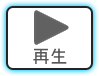
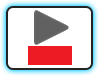
曲の自動再生に失敗している場合、ポーズボタンを曲開始表示に変更(画像は仮素材)

Changed region(s): [[0.2727, 0.6053, 0.7273, 0.8684]]

diff --git a/textalive-sample/src/scenes/GameMain.ts b/textalive-sample/src/scenes/GameMain.ts
@@ -30,7 +30,6 @@ export default class GameMain extends Phaser.Scene {
 
     public api: TextaliveApiManager;
 
-    public musicStart = false;
     public sceneChangeStatus = "";
 
     public firstLane: number = 120;
@@ -111,6 +110,10 @@ export default class GameMain extends Phaser.Scene {
     // チュートリアル関連
     private tutorial: TutorialObject;
 
+    // 曲開始処理用
+    private musicStartState: string;
+    private musicStartRequestTime: number;
+
     // ポーズボタン
     private pauseButton: UIPauseButtonObject;
 
@@ -174,6 +177,10 @@ export default class GameMain extends Phaser.Scene {
 
         // チュートリアル
         this.tutorial = new TutorialObject();
+
+        // 曲開始処理用
+        this.musicStartState = "";
+        this.musicStartRequestTime = 0;
 
         // ボタン
         this.pauseButton = new UIPauseButtonObject();
@@ -247,8 +254,9 @@ export default class GameMain extends Phaser.Scene {
         TimeProgressBarObject.preload(this.load);
 
         // ボタン
-        this.load.image("button_play", uiImage["start"]);
+        this.load.image("button_play", uiImage["play"]);
         this.load.image("button_pause", uiImage["pause"]);
+        this.load.image("button_start", uiImage["start"]);
     }
 
     create(): void {
@@ -347,6 +355,7 @@ export default class GameMain extends Phaser.Scene {
             scene: this,
             pauseImageKey: "button_pause",
             playImageKey: "button_play",
+            startImageKey: "button_start",
             posX: 1200,
             posY: 670,
             textaliveManager: this.api,
@@ -445,11 +454,12 @@ export default class GameMain extends Phaser.Scene {
         if (
             !this.api.player.isPlaying &&
             !this.api.player.isLoading &&
-            !this.musicStart &&
+            this.musicStartState == "" &&
             this.tutorial.gameStartCounter > 100
         ) {
             this.api.player.requestPlay();
-            this.musicStart = true;
+            this.musicStartState = "requestedPlay";
+            this.musicStartRequestTime = performance.now();
 
             // 歌詞の色付け
             this.lyricLogicObject.setLyricColor();
@@ -465,6 +475,14 @@ export default class GameMain extends Phaser.Scene {
             // 楽曲情報をコンソール出力
             if (this.enableDebugInfo) {
                 this.debugInfo.dispConsoleSongInfo();
+            }
+        } else if (this.musicStartState == "requestedPlay") {
+            if (this.api.player.isPlaying) {
+                this.pauseButton.setStatus("pause");
+                this.musicStartState = "musicStarted";
+            } else if (performance.now() - this.musicStartRequestTime > 1000) {
+                // Phaser と TextAlive App API の更新処理が同期取れないので1秒以上開始できていなければ、自動再生に失敗したとみなす
+                this.pauseButton.setStatus("start");
             }
         }
 

diff --git a/textalive-sample/src/object/UIPauseButtonObject.ts b/textalive-sample/src/object/UIPauseButtonObject.ts
@@ -1,3 +1,4 @@
+import GameMain from "../scenes/GameMain";
 import TextaliveApiManager from "../TextaliveApiManager";
 import UIImageButtonObject from "./UIImageButtonObject";
 
@@ -5,6 +6,7 @@ export interface UIPauseButtonObjectCreateParam {
     scene: Phaser.Scene;
     pauseImageKey: string;
     playImageKey: string;
+    startImageKey: string;
     imageDepth?: number;
     posX: number;
     posY: number;
@@ -19,15 +21,16 @@ export default class UIPauseButtonObject {
         this.init();
     }
 
-    init(): void {
+    public init(): void {
         this._button = null;
         this._textaliveManager = null;
     }
 
-    create(param: UIPauseButtonObjectCreateParam): void {
+    public create(param: UIPauseButtonObjectCreateParam): void {
         const imageKeyMap = new Map<string, string>([
             ["pause", param.pauseImageKey],
             ["play", param.playImageKey],
+            ["start", param.startImageKey],
         ]);
 
         this._button = new UIImageButtonObject();
@@ -54,15 +57,29 @@ export default class UIPauseButtonObject {
         }
 
         if (this._textaliveManager.player.isPlaying) {
-            this._button.status = "play";
-            this._textaliveManager.player.requestPause();
+            this._setStatus("play");
         } else {
-            this._button.status = "pause";
-            this._textaliveManager.player.requestPlay();
+            this._setStatus("pause");
         }
     }
 
-    setVisible(value: boolean): void {
+    public setStatus(status: string): void {
+        this._setStatus(status);
+    }
+
+    private _setStatus(status: string): void {
+        this._button.status = status;
+        switch (status) {
+            case "play":
+                this._textaliveManager.player.requestPause();
+                break;
+            case "pause":
+                this._textaliveManager.player.requestPlay();
+                break;
+        }
+    }
+
+    public setVisible(value: boolean): void {
         this._button.setVisible(value);
     }
 }
